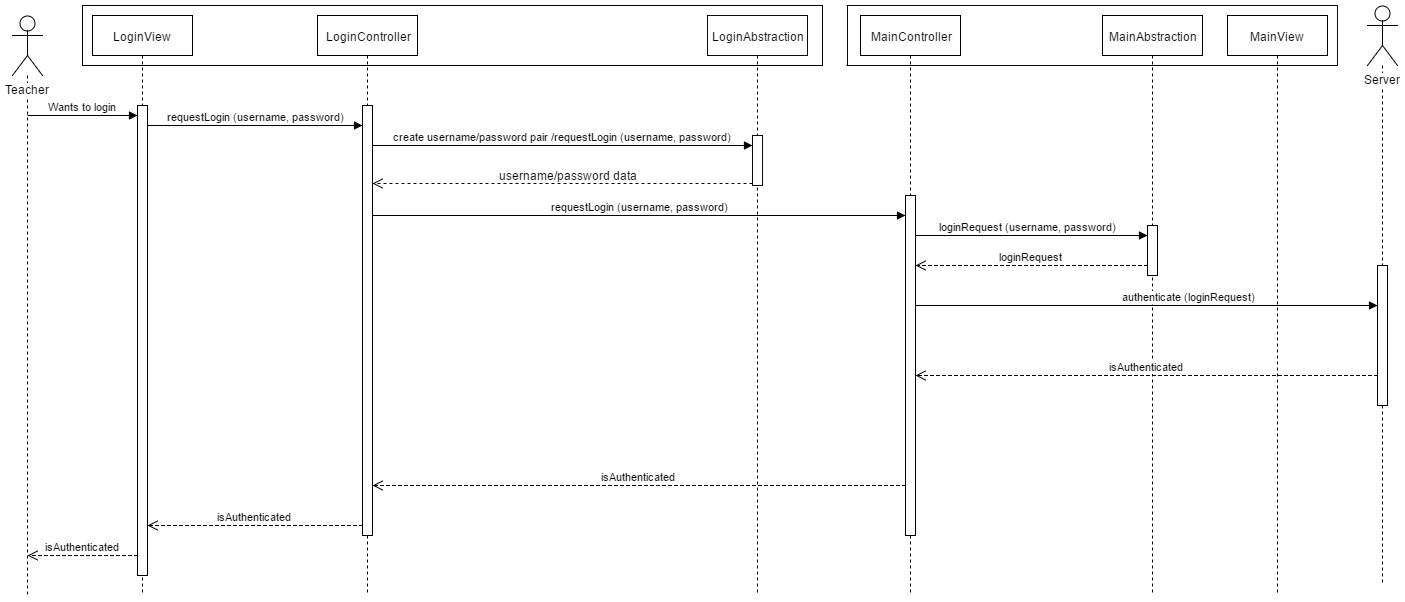
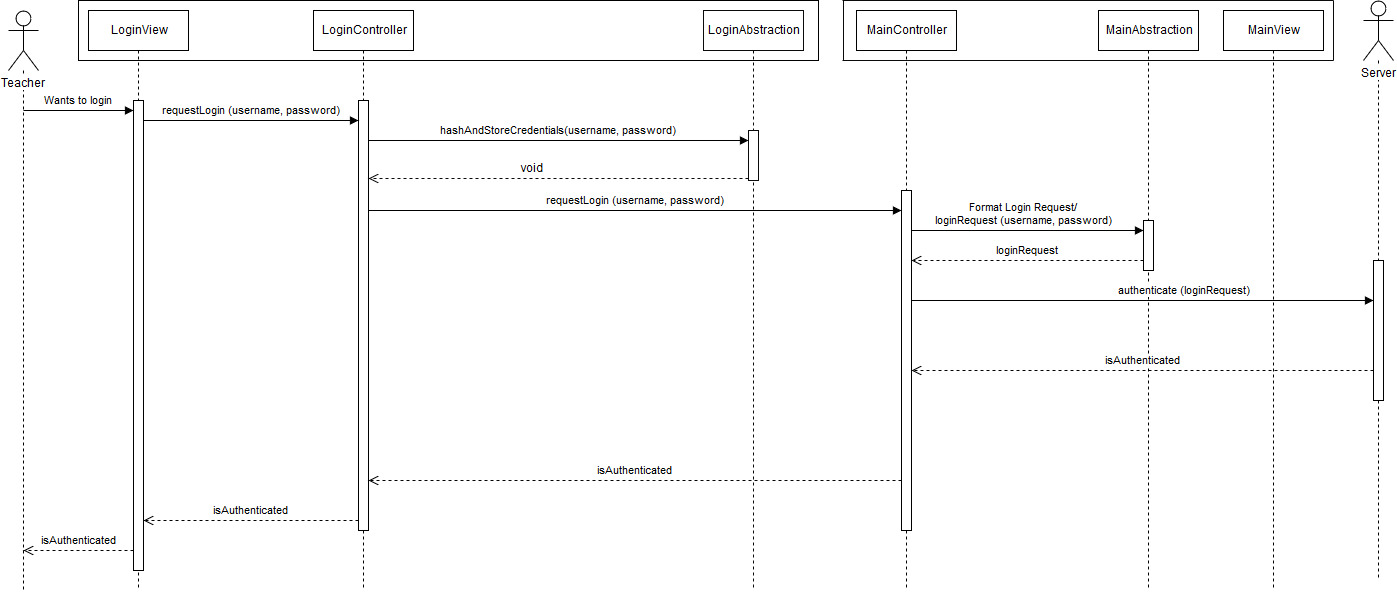
Updated sequence diagrams and detailed class diagram

diff --git a/Deliverable 3/Deliverable3.tex b/Deliverable 3/Deliverable3.tex
@@ -231,13 +231,14 @@ This section contains sequence diagrams for each use case identified in Delivera
 }
 % End Section
 
+\newpage
 \section{Detailed Class Diagram}
 \label{sec:detailed_class_diagram}
 % Begin Section
 The following is a detailed class diagram for Erudite.
 \begin{figure}[H]
   \centering
-  \includegraphics[scale=0.3]{A3_Assets/DetailedClassDiagram.jpg}
+  \includegraphics[scale=0.35]{A3_Assets/DetailedClassDiagram.jpg}
   \caption{Detailed Class Diagram}
 \end{figure}
 % End Section
